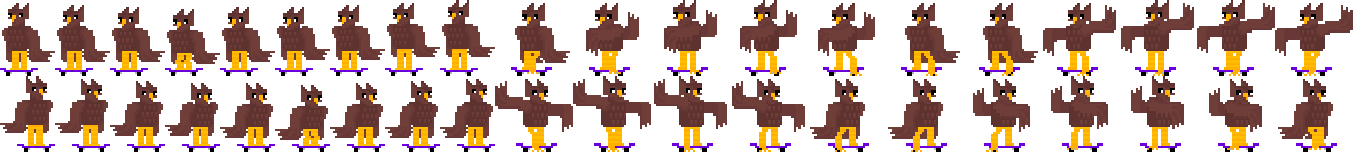
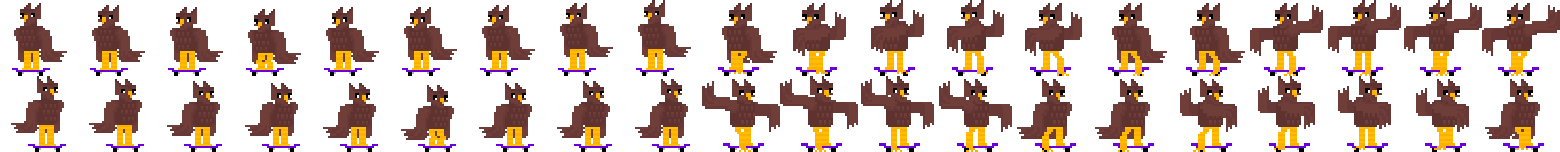
typo and file fix

diff --git a/tony-owl/game/states/preload.js b/tony-owl/game/states/preload.js
@@ -30,7 +30,7 @@ Preload.prototype = {
     this.load.image('ampli', 'assets/images/ampli.png');
     
     // characters
-    this.load.spritesheet('owl', 'assets/images/tony-owl-sheet-sheet.png', 78, 76, -1);
+    this.load.spritesheet('owl', 'assets/images/tony-owl-sheet.png', 78, 76, -1);
     this.load.spritesheet('negaowl', 'assets/images/negaowl.png', 379, 500, 9);
     
     
